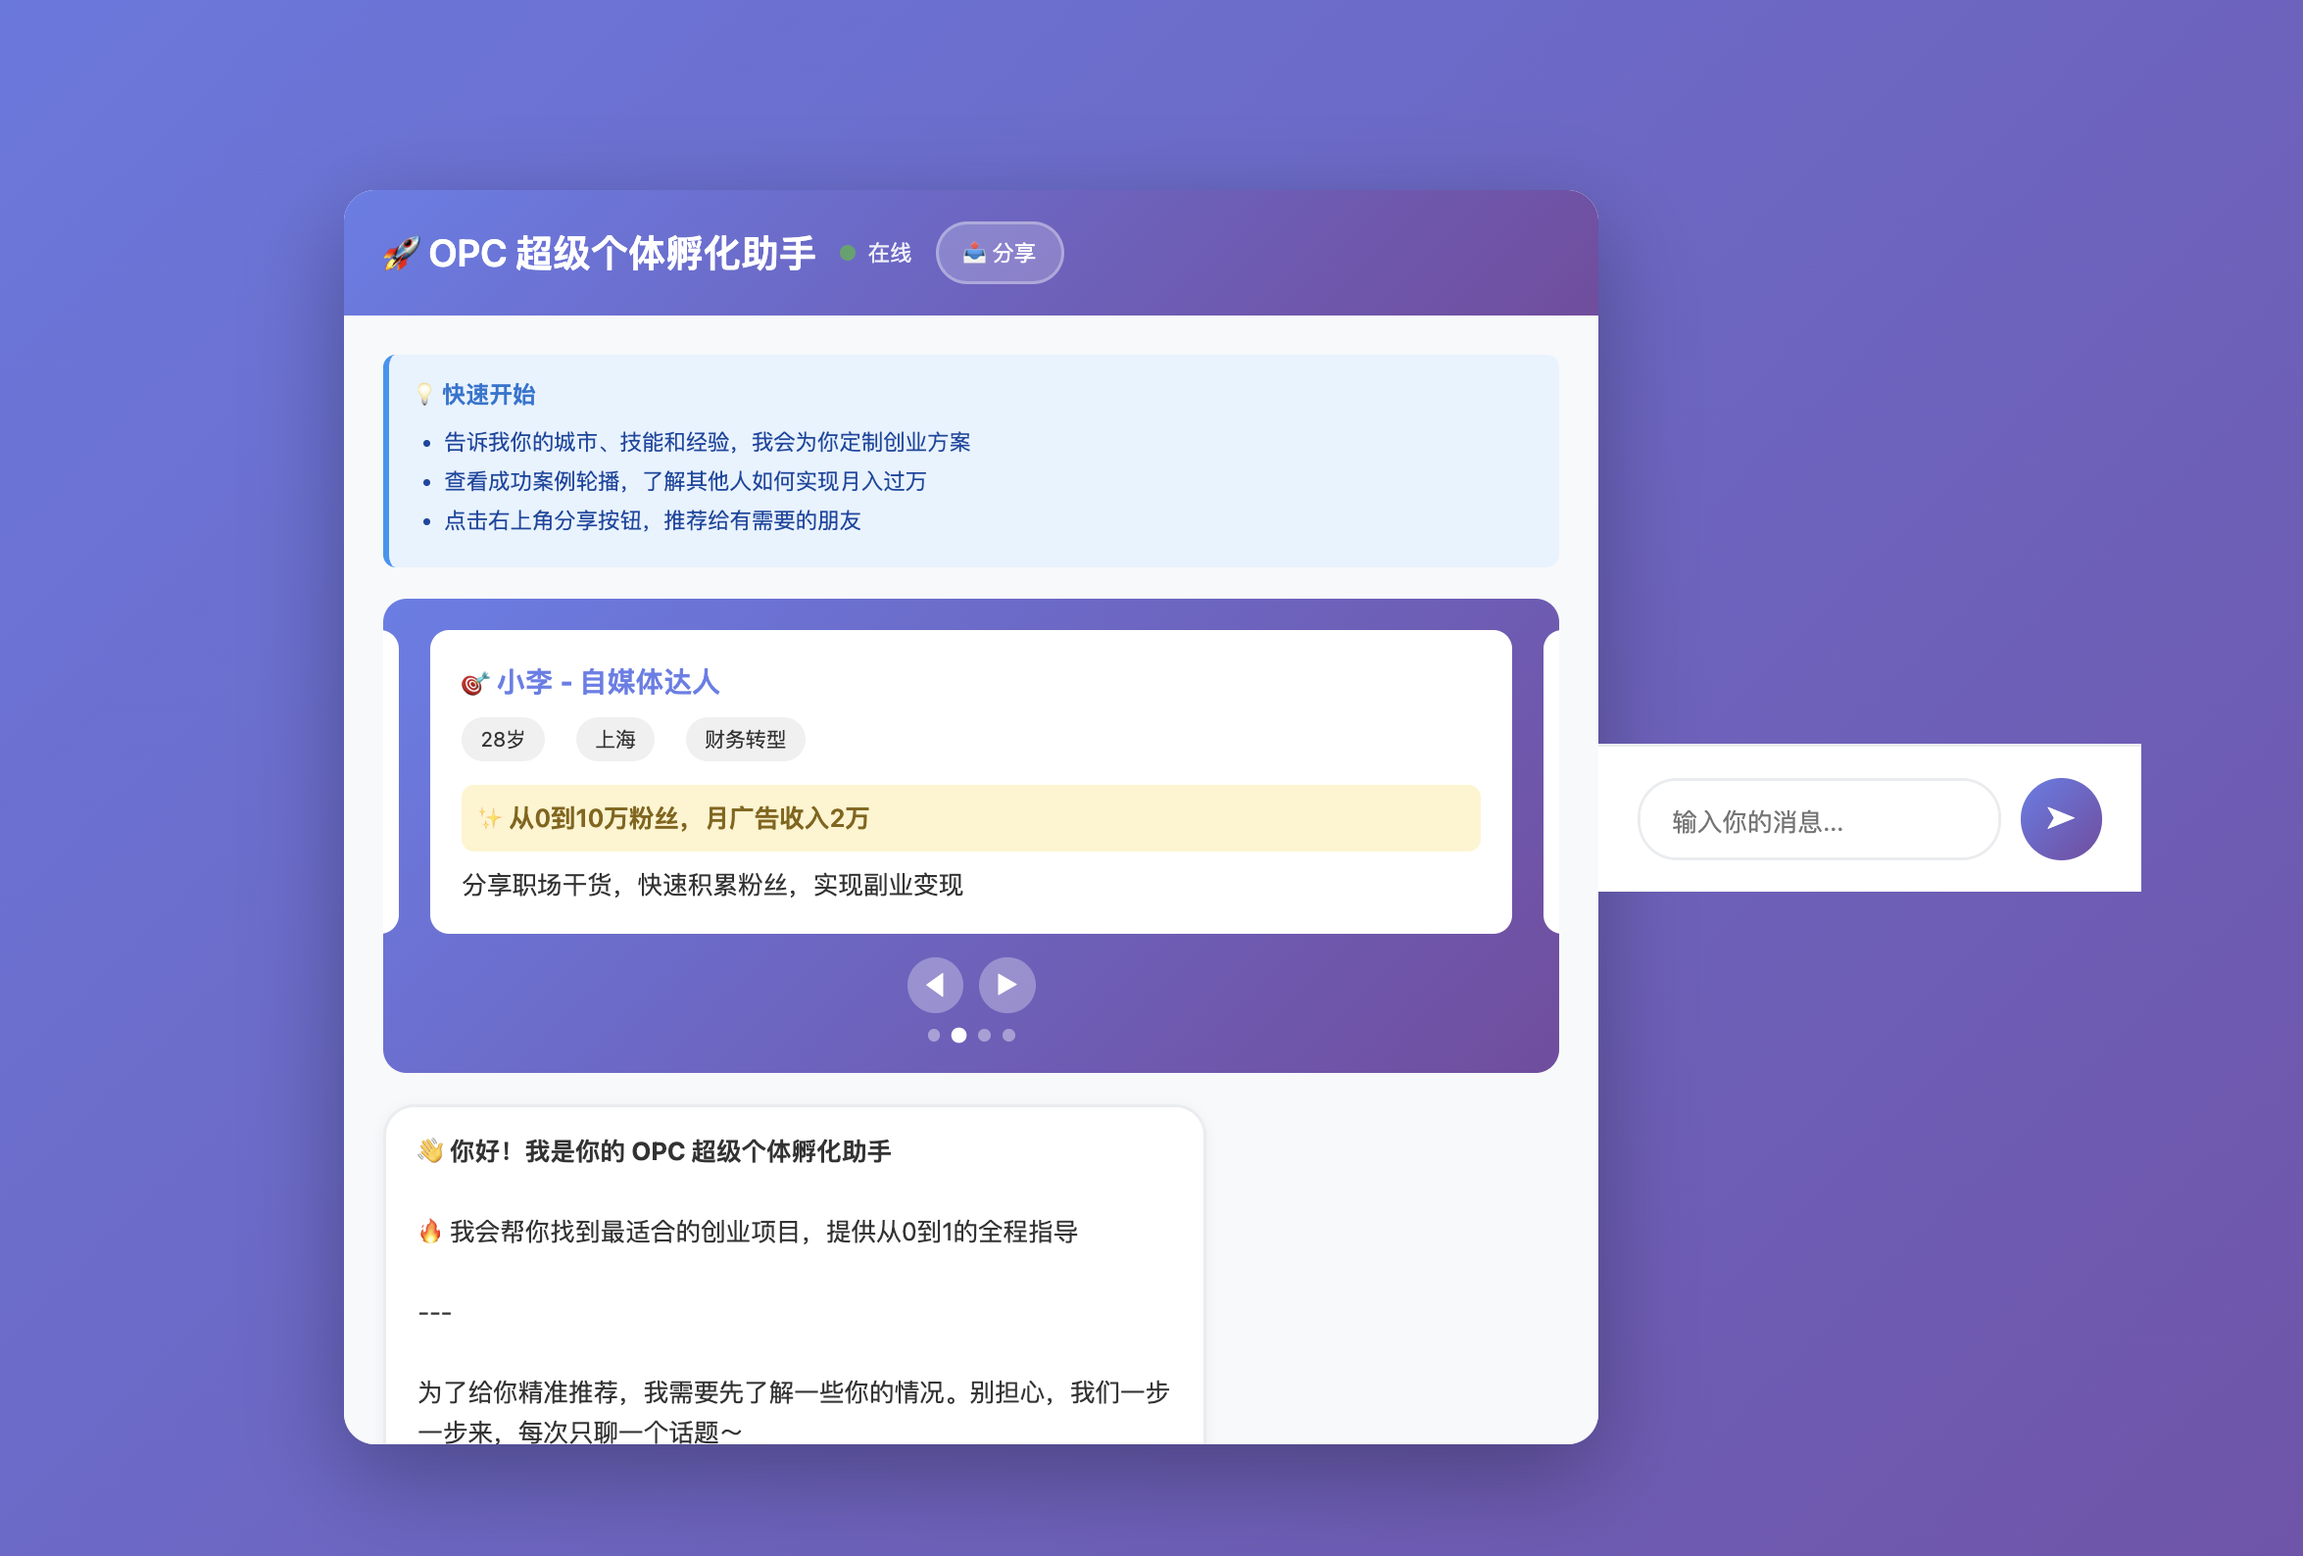
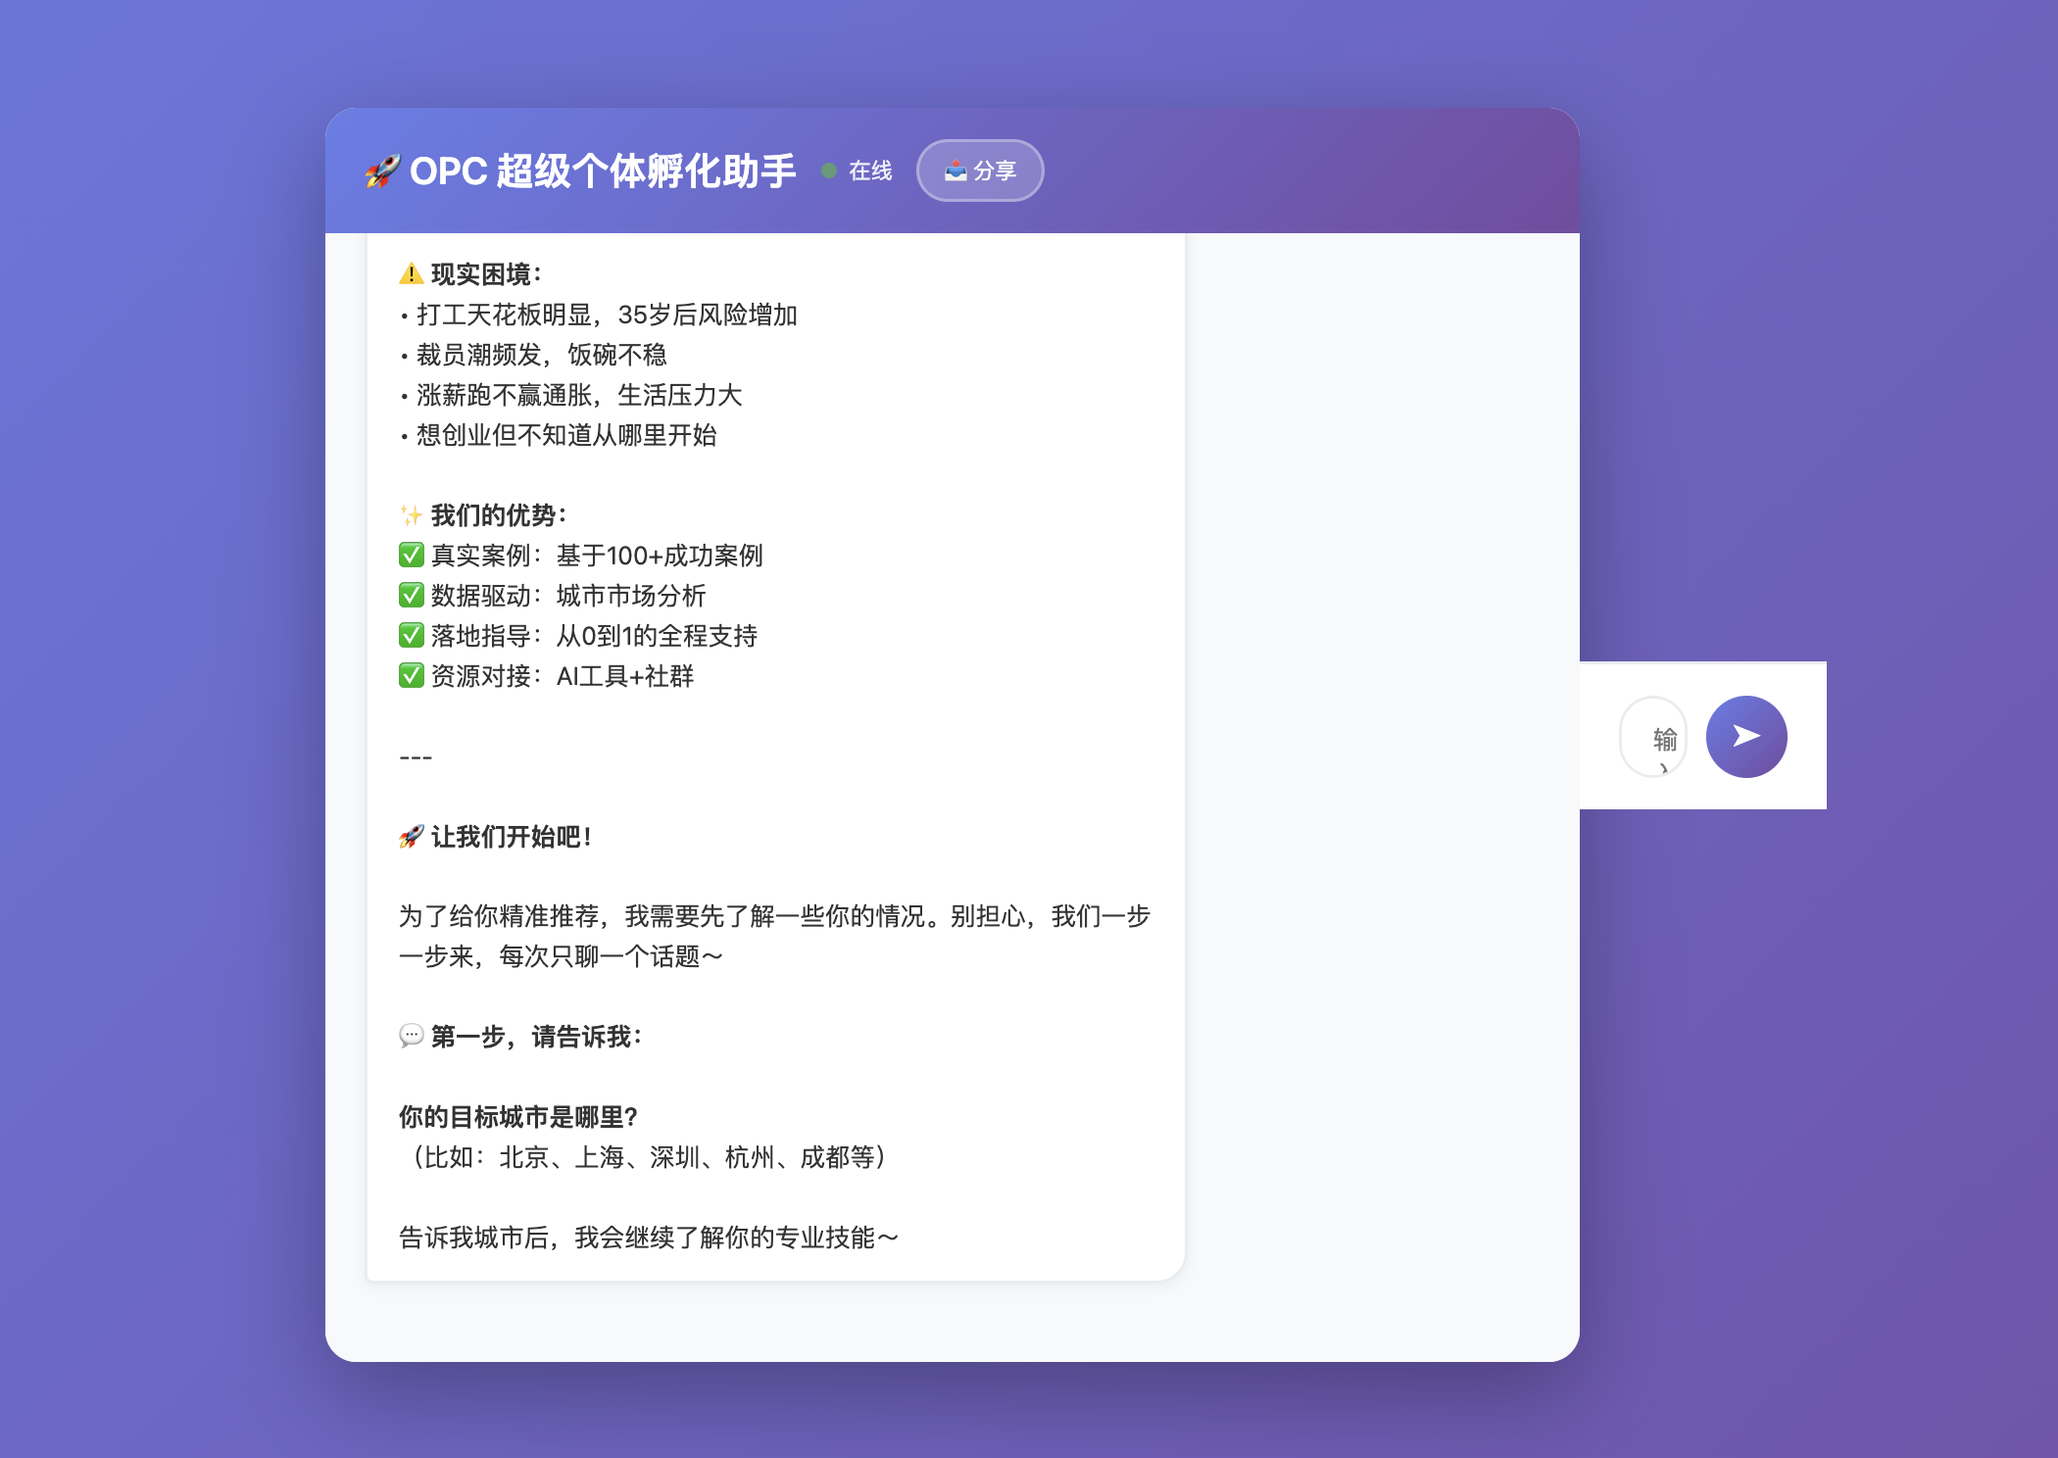
fix: 修复输入框溢出问题，添加 box-sizing

Changed region(s): [[0.1238, 0.0618, 0.9286, 0.9583], [0.4643, 0.8656, 0.4952, 0.8965]]

diff --git a/src/main_flask.py b/src/main_flask.py
@@ -267,6 +267,7 @@ def index():
                 padding: 20px 25px;
                 background: white;
                 border-top: 2px solid #e9ecef;
+                box-sizing: border-box;
             }
             .chat-input-wrapper {
                 display: flex;
@@ -274,6 +275,8 @@ def index():
                 align-items: flex-end;
                 flex-wrap: nowrap;
                 width: 100%;
+                max-width: 100%;
+                box-sizing: border-box;
             }
             .chat-input {
                 flex: 1;
@@ -287,7 +290,7 @@ def index():
                 transition: border-color 0.3s;
                 min-height: 52px;
                 max-height: 150px;
-                width: 0; /* 配合 flex: 1 使用，防止内容超出 */
+                box-sizing: border-box;
             }
             .chat-input:focus {
                 border-color: #667eea;
